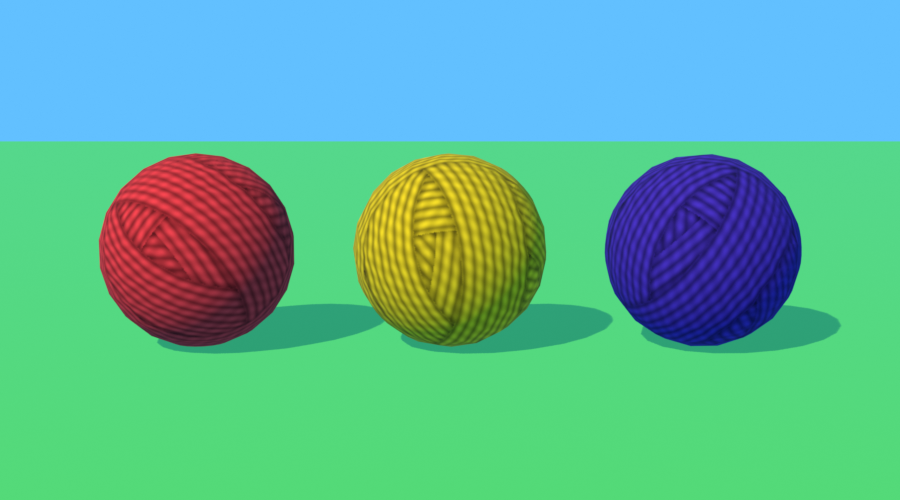
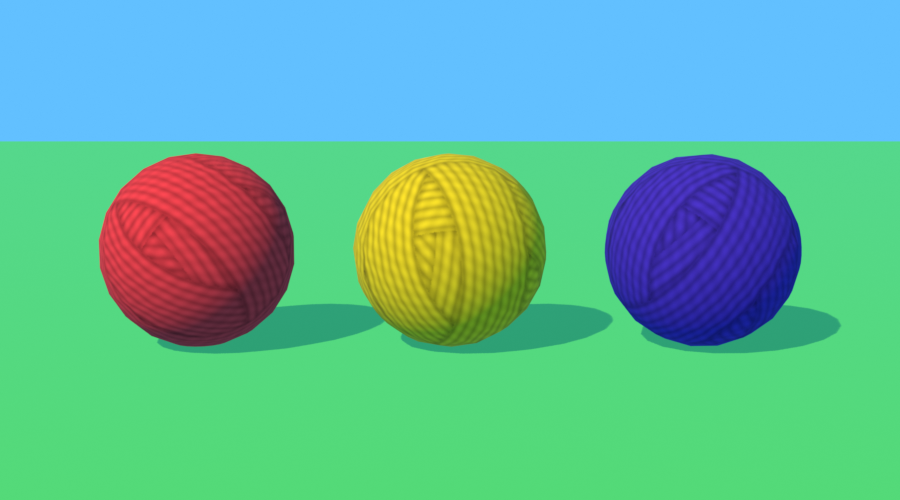
docs: 털실 색·진자·궤도 결과와 진행 기록 (Phase 1 Task 4g)
- SM-P200 스크린샷: 자유 낙하 털실 3색(low·high), 진자 털실 추, 궤도 털실 행성, 충돌, 대기 근접, 택배 박스 근접
- 렌더 평균색, Blender 털실 미리보기 갱신, Phase 1 진행 기록

Changed region(s): [[0.6844, 0.3, 0.8711, 0.69], [0.4044, 0.3, 0.5911, 0.66], [0.0933, 0.3, 0.3111, 0.66]]

diff --git a/spikes/bench/results/phase1-task4g/README.md b/spikes/bench/results/phase1-task4g/README.md
@@ -55,7 +55,9 @@
 | `screens/push-sliding.png` | 마찰 밀기 53 N으로 미끄러지는 택배 박스를 두 앞발로 미는 고양이 |
 | `screens/parcel-push-front.png`, `parcel-push-close.png` | 마찰 밀기 택배 박스(정면, 근접) |
 | `screens/parcel-incline.png`, `parcel-incline-close.png` | 빗면 마찰 택배 박스(정면, 근접) |
-| `screens/yarn-close.png` | 자유 낙하 털실 공 빨강·노랑·보라 |
+| `screens/yarn-close.png`, `yarn-close-high.png` | 자유 낙하 털실 공 빨강·노랑·보라(선명한 색 수정 뒤, low / high) |
+| `screens/yarn-pendulum.png`, `yarn-pendulum-close.png` | 진자 털실 추(줄 파랑·막대 주황) |
+| `screens/yarn-orbit.png`, `yarn-orbit-close.png` | 궤도 털실 행성(파랑, 우주 무대) |
 | `screens/yarn-collision.png` | 충돌 털실 공 A 파랑·B 주황 |
 | `cat-throw.mp4` | 14초(960×600), 따라가기 시점, 45°·9 m/s를 4초마다 던짐 |
 | `cat-throw-0deg.mp4` | 8초, 0°·6 m/s(수평 던지기: 머리 위로 감았다가 수평으로 놓음) |
@@ -68,6 +70,9 @@
 - 처음 low 빌드에서 아틀라스 색이 하얗게 떴다. Compatibility 렌더러가 `source_color` 텍스처를 sRGB에서 풀지 않았기 때문이다. 지금은 셰이더(`art_lit_tex.gdshader`)가 직접 푼다.
 - 그늘 면은 따뜻한 색이 남도록 그늘 색 비율을 35 %로 낮췄다.
 - 앞서 바래 보인 v3 밀기·감기 사진은 sRGB 수정 전 빌드라 지웠다.
+- 털실 공 색(18:00–18:07 빌드): 렌더 평균 low 노랑 `#f1c016`·빨강 `#f4393a`·보라 `#482799`(팔레트 `#ffc61a`·`#ff3b3b`·`#4b2a9a`와 ΔE 4.6·4.2·1.6)이고, high는 `#e9ba19`·`#f1393a`·`#472797`이다.
+  - 수정 전에는 빨강이 `#e57879`였다. low가 `source_color` tint를 sRGB로 풀지 않았기 때문이다. 지금은 tint를 `Vector4` 선형 값으로 넘기고, 텍스처 평균으로 나눈다.
+  - 이 색 수정은 셰이더 uniform 값만 바꿨고, fps는 다시 재지 않았다.
 
 ## 3. 헤드리스 확인 (요약)
 
@@ -100,5 +105,4 @@
   - 낮은 각도(0–15°) 던지기에서는 휘두르기 끝에 공이 볼 옆을 스친다.
   - 감기는 머리 뒤로 가서 정면에서는 일부 가려진다.
 - 던지기 정점 예산 초과(약 16,100, 3 m에서 약 17,600 / 15,000): 문서 예외로 두었다(fps 충족).
-- 진자 추와 궤도 행성(구)은 털실로 바꾸지 않았다(공이 아니라고 봄). 바꿀지 사용자 판단이 필요하다.
 - 대기 변형(눕힌 봉투)과 다른 실험 확장은 이번 범위 밖이다.

diff --git a/docs/3d-phase1/README.md b/docs/3d-phase1/README.md
@@ -276,3 +276,8 @@ Notion Story·Task와 GitHub Issue는 발행하지 않는다. 이 문서가 Phas
   - 빵봉투 문양은 식빵 하나다.
   - SM-P200 low 90초 × 1회: 던지기 59.81, 마찰 밀기 59.73 fps. 스크린샷(대기 근접 세 각도, 봉투 근접, 3 m 빵 상자, 0°·45° 던지기, 밀기, 택배 박스, 털실 공)과 화면 기록(45°, 0°)을 남겼다. 웹·물리·패널 불변 시험은 통과한다. [결과](../../spikes/bench/results/phase1-task4g/README.md)
   - 사용자 판단 필요: 낮은 각도 던지기에서 공이 볼 옆을 스침, 감기가 정면에서 머리 뒤로 일부 가려짐, 진자 추·행성의 털실 여부, 정점 예산 예외(던지기 약 16,100).
+- 2026-10-23: Task 4g 사용자 결정 — 진자 추(줄·막대)와 궤도 행성도 털실이고, 털실 색은 원래 팔레트처럼 선명하게 했다.
+  - 털실 텍스처를 밝게 했다(골 0.62 → 0.8). 공 색(선형)을 텍스처 선형 평균(0.72)으로 나눠 평균색이 팔레트 색이 되게 했다.
+  - 원인 하나 더: tint를 `Color`로 넘기면 Compatibility는 sRGB로 풀지 않고(빨강이 분홍 `#e57879`), Mobile은 힌트 없이도 풀어 짙어졌다. `Vector4` 선형 값으로 넘기니 SM-P200 렌더 평균이 low 노랑 `#f1c016`·빨강 `#f4393a`·보라 `#482799`(팔레트와 ΔE 4.6·4.2·1.6)이고, high도 같다.
+  - 색각 이상 ΔE 표를 렌더 색으로 다시 쟀다(가장 가까운 쌍 노랑–빨강 정상 78·녹색맹 34, 팔레트와 같은 수준; [아트 디렉션 2절](../../apps/lab3d/docs/art-direction.md#2-팔레트)).
+  - 시험: 진자 추·행성의 털실 메시·크기·색 확인을 더했다. 크기·질량·물리·궤적은 그대로다. 스크린샷은 [결과](../../spikes/bench/results/phase1-task4g/README.md)(yarn-close, yarn-pendulum, yarn-orbit).
